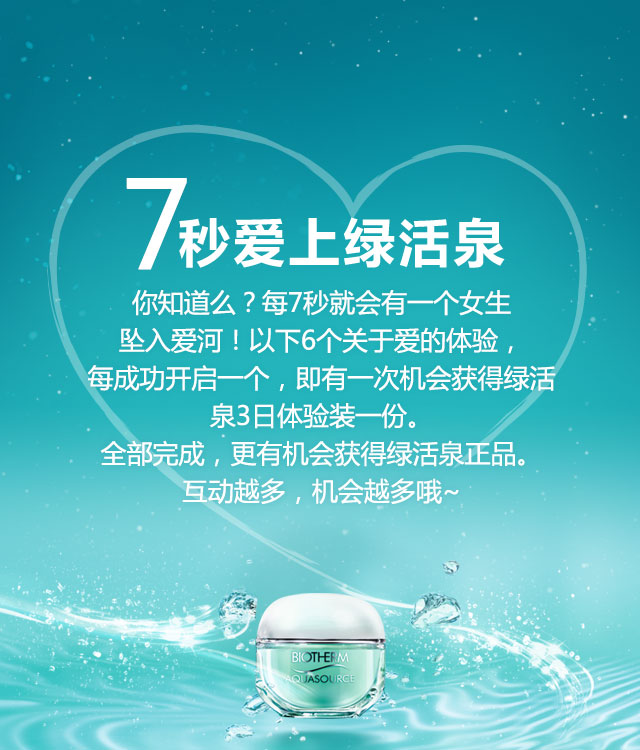
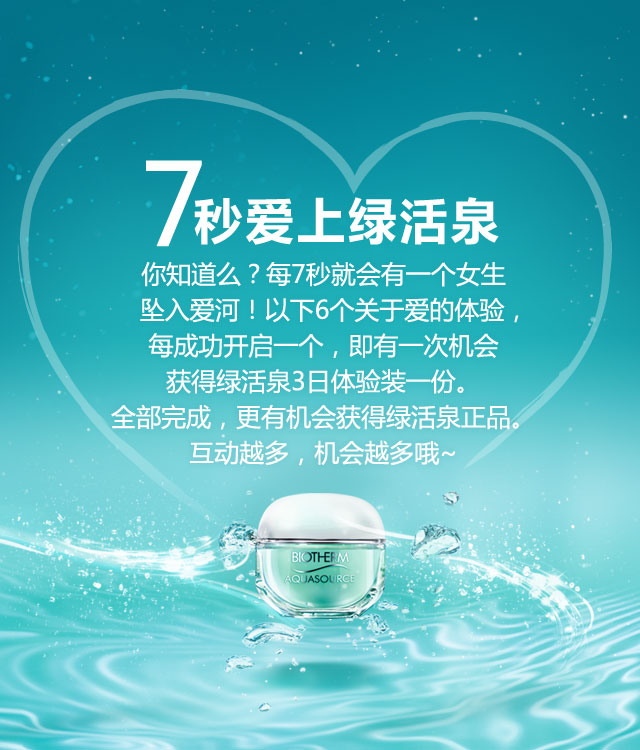
7s-04: 修改7s首页及list页面样式

diff --git a/app/styles/main.css b/app/styles/main.css
@@ -995,14 +995,14 @@ section#seven-love > .action-bar > a {
   background-size: 14px;
 }
 section#seven-love > a {
-  width: 154px;
-  height: 32px;
+  width: 168px;
+  height: 36px;
   background: url(../images/btn-enter.png) no-repeat;
   background-size: contain;
   position: absolute;
   left: 50%;
-  bottom: 82px;
-  margin-left: -77px;
+  bottom: 10px;
+  margin-left: -84px;
   text-indent: -10000px;
 }
 section#event-intro {
@@ -1031,38 +1031,58 @@ section#event-list > .action-bar > a {
   background-size: 14px;
 }
 section#event-list > .event-link ul > li {
-  height: 50px;
+  display: block;
+  width: 50%;
+  float: left;
+}
+section#event-list > .event-link ul > li:nth-child(2n+1) {
+  border-bottom: 1px solid #87dfe5;
+  border-right: 1px solid #87dfe5;
+}
+section#event-list > .event-link ul > li:nth-child(2n) {
   border-bottom: 1px solid #87dfe5;
 }
-section#event-list > .event-link ul > li:last-child {
-  border-width: 0;
+section#event-list > .event-link ul > li:nth-child(5),
+section#event-list > .event-link ul > li:nth-child(6) {
+  border-bottom-width: 0;
 }
 section#event-list > .event-link ul > li > a {
   display: block;
-  padding-left: 42px;
-  line-height: 46px;
+  width: 100%;
+  height: 100%;
   color: white;
-  background: url(../images/icon-enter.png) no-repeat 90% center;
-  background-size: 27px;
+  text-align: center;
 }
 section#event-list > .event-link ul > li > a > span {
+  display: block;
   font-size: 30px;
-  padding-right: 10px;
+  margin-top: 10%;
 }
 section#event-list > .event-link ul > li > a > strong {
+  display: block;
   font-size: 14px;
+}
+section#event-list > .event-link ul > li > a > strong:after {
+  content: ">";
+  padding-left: 6px;
 }
 section#event-list > .event-link ul > li > a > button {
   color: #0fbfca;
   border-width: 0;
-  margin-left: 5px;
   height: 20px;
   border-radius: 10px;
   background: white;
   line-height: 18px;
   font-size: 12px;
   font-weight: bold;
-  visibility: hidden;
+  margin-top: 2px;
+  opacity: 0;
+}
+section#event-list > .event-link ul > li.passed > a > span {
+  margin-top: 5%;
+}
+section#event-list > .event-link ul > li.passed > a > button {
+  opacity: 1;
 }
 section#event-deep-1 {
   background: #037489 url(../images/bg-deep.jpg) no-repeat center bottom;

diff --git a/app/styles/main.less b/app/styles/main.less
@@ -145,12 +145,12 @@ section{
       background-size: 14px;
     }
     &>a{
-      .size(154px, 32px);
+      .size(336px/2, 72px/2);
       background:url(../images/btn-enter.png) no-repeat;
       background-size: contain;
       position:absolute;
-      left:50%; bottom:82px;
-      margin-left: -154px/2;
+      left:50%; bottom:10px;
+      margin-left: -336px/4;
       text-indent: -10000px;
     }
   }
@@ -172,36 +172,58 @@ section{
     }  
     &>.event-link{
       ul>li{
-        height:50px;
-        border-bottom:1px solid #87dfe5;
-        &:last-child{
-          border-width: 0;
+        display:block;
+        width:50%;
+        float:left;
+        &:nth-child(2n+1){
+          border-bottom:1px solid #87dfe5;
+          border-right:1px solid #87dfe5;
+        }
+        &:nth-child(2n){
+          border-bottom:1px solid #87dfe5;
+        }
+        &:nth-child(5),&:nth-child(6){
+          border-bottom-width:0;
         }
         &>a{
           display:block;
-          padding-left:42px;
-          line-height:46px;
+          .square(100%);
           color:white;
-          background:url(../images/icon-enter.png) no-repeat 90% center;
-          background-size: 27px;
+          text-align: center;
           &>span{
+            display: block;
             font-size:30px;
-            padding-right:10px;
+            margin-top: 10%;
           }
           &>strong{
+            display: block;
             font-size:14px;
+            &:after{
+              content:">";
+              padding-left:6px;
+            }
           }
           &>button{
             color:#0fbfca;
             border-width: 0;
-            margin-left:5px;
             height:20px;
             border-radius: 10px;
             background:white;
             line-height: 18px;
             font-size: 12px;
             font-weight: bold;
-            visibility: hidden;
+            margin-top: 2px;
+            opacity: 0;
+          }
+        }
+      }
+      ul>li.passed{
+        &>a{
+          &>span{
+            margin-top: 5%;
+          }
+          &>button{
+            opacity: 1;
           }
         }
       }

diff --git a/app/scripts/main.js b/app/scripts/main.js
@@ -29,7 +29,12 @@
       seven.init=function(){
         var $o=$(".seven-page .action-bar>a, #seven-love>a");
         c.transfer($o);
-        $("#seven-love>a").on("click", function(){return false;})
+        $("#seven-love>a").on("click", function(){return false;});
+        this.listHeight();
+      }
+      seven.listHeight=function(){
+        var h=window.innerHeight-$("nav.navbar").height()-$(".action-bar").height();
+        $(".seven-page .event-link ul").style("height",h+"px").children().style("height",h/3+"px");
       }
       return seven;
     }

diff --git a/app/7-love.html b/app/7-love.html
@@ -33,13 +33,13 @@
       <a href="#event-list">进入体验</a>
     </section>
 
-    <section id="event-list" class="slideOut">
+    <section id="event-list" class="slideIn">
       <div class="action-bar">
         <a href="#seven-love">返回</a>
       </div>
       <div class="event-link">
         <ul class="list-unstyled">
-          <li>
+          <li class="passed">
             <a href="event-deep.html">
               <span>01</span>
               <strong>DEEP</strong>
